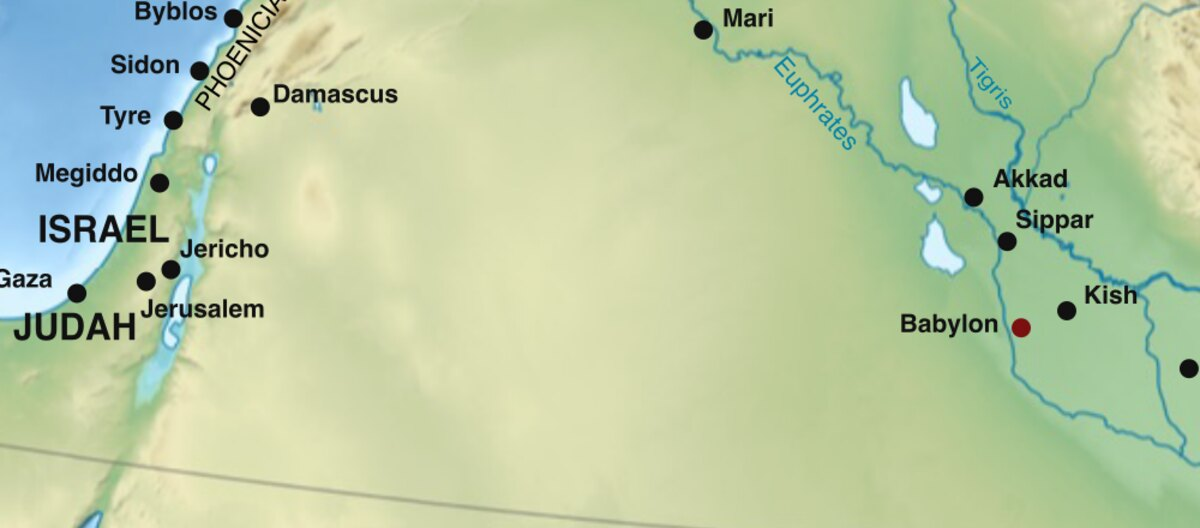
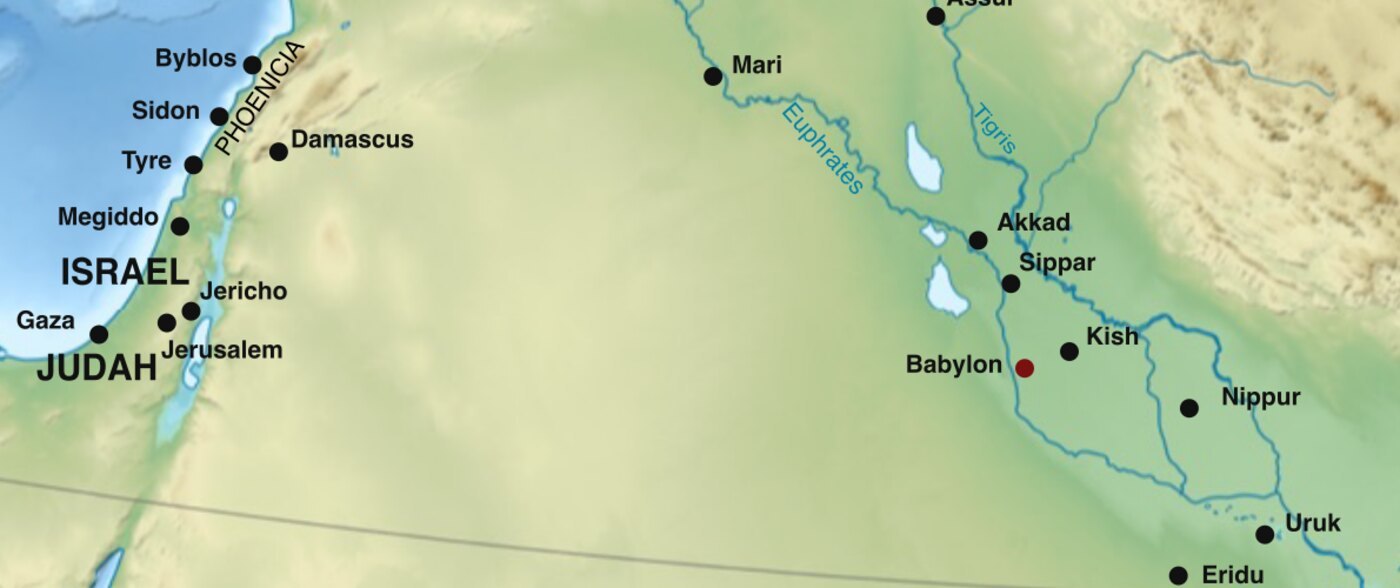
Babylon 07: route follows the Euphrates + ends at the Chebar settlement
Refine the deportation stepper: the route now tracks the actual Euphrates
(routed through Mari -> Sippar -> Babylon) instead of arcing over the desert,
and continues past Babylon to the Chebar-canal / Tel-abib settlement near
Nippur where the exiles actually lived (Ezekiel 3:15) -- not just Babylon
city. Subtitle notes all three waves shared this one road. Wider base crop.

diff --git a/content/culture/ancient/babylon/07-the-exile-experience.md b/content/culture/ancient/babylon/07-the-exile-experience.md
@@ -91,9 +91,10 @@ Your browser doesn&rsquo;t support the audio element &mdash; <a href="/audio/cul
 .exr-route-live { fill:none; stroke:#c65528; stroke-width:5; stroke-linecap:round; }
 .exr-dot-jeru { fill:#7a3030; stroke:#fff; stroke-width:2; }
 .exr-dot { fill:#3c3a33; stroke:#fff; stroke-width:1.5; }
+.exr-dot-end { fill:#c65528; stroke:#fff; stroke-width:2; }
 .exr-ring { fill:none; stroke:#c65528; stroke-width:3; }
-.exr-lbl { font:700 15px -apple-system,sans-serif; fill:#2c2a25; paint-order:stroke; stroke:#f3ecda; stroke-width:3; }
-.exr-sub { font:italic 12px -apple-system,sans-serif; fill:#5a544a; paint-order:stroke; stroke:#f3ecda; stroke-width:3; }
+.exr-lbl { font:700 15px -apple-system,sans-serif; fill:#2c2a25; paint-order:stroke; stroke:#f3ecda; stroke-width:3.5; }
+.exr-sub { font:italic 12px -apple-system,sans-serif; fill:#5a544a; paint-order:stroke; stroke:#f3ecda; stroke-width:3.5; }
 .exr-cap { padding:12px 18px 6px; font-size:.9rem; line-height:1.5; color:#443f37; min-height:4.6em; border-top:1px solid #eee6d8; }
 .exr-cap b { color:#7a3030; }
 .exr-time { display:flex; gap:0; padding:8px 12px 18px; position:relative; }
@@ -110,17 +111,20 @@ Your browser doesn&rsquo;t support the audio element &mdash; <a href="/audio/cul
 
 <div class="exr">
   <div class="exr-head"><h4>The Road to Babylon</h4>
-  <p>Three times Babylon emptied Jerusalem &mdash; the same long road north through Riblah and down the Euphrates. Step through the waves.</p></div>
-  <svg class="exr-map" viewBox="0 0 1000 440" role="img" aria-label="Map of the deportation route from Jerusalem through Riblah to Babylon">
-    <image href="/images/culture/babylon/maps/exile-route-base.jpg" x="0" y="0" width="1000" height="440"/>
+  <p>All three deportations took the same long road &mdash; north through Riblah, then down the Euphrates to the canal-country by the Chebar. Step through the waves.</p></div>
+  <svg class="exr-map" viewBox="0 0 1190 500" role="img" aria-label="Map of the deportation route from Jerusalem through Riblah down the Euphrates to the Chebar settlement near Nippur">
+    <image href="/images/culture/babylon/maps/exile-route-base.jpg" x="0" y="0" width="1190" height="500"/>
     <defs><marker id="exr-ah" markerWidth="6" markerHeight="6" refX="3" refY="3" orient="auto"><path d="M0,0 L6,3 L0,6 Z" fill="#c65528"/></marker></defs>
-    <path class="exr-route-base" d="M112,262 Q150,128 260,108 Q520,66 720,178 Q800,232 846,270"/>
-    <path class="exr-route-live" id="exr-live" d="M112,262 Q150,128 260,108 Q520,66 720,178 Q800,232 846,270" marker-end="url(#exr-ah)"/>
-    <circle class="exr-dot-jeru" cx="112" cy="262" r="6.5"/>
-    <circle class="exr-ring" cx="851" cy="272" r="12"/>
-    <circle class="exr-dot" cx="260" cy="108" r="5.5"/>
-    <text class="exr-lbl" x="272" y="104">Riblah</text>
-    <text class="exr-sub" x="272" y="120">Nebuchadnezzar&rsquo;s HQ</text>
+    <path class="exr-route-base" d="M137,304 C190,150 245,105 300,98 C430,58 540,62 622,82 C735,150 815,205 862,250 C872,272 872,296 872,314 C925,332 978,343 1012,349 C1030,368 1044,388 1050,404"/>
+    <path class="exr-route-live" id="exr-live" d="M137,304 C190,150 245,105 300,98 C430,58 540,62 622,82 C735,150 815,205 862,250 C872,272 872,296 872,314 C925,332 978,343 1012,349 C1030,368 1044,388 1050,404" marker-end="url(#exr-ah)"/>
+    <circle class="exr-dot-jeru" cx="137" cy="304" r="6.5"/>
+    <circle class="exr-dot" cx="300" cy="98" r="5.5"/>
+    <text class="exr-lbl" x="312" y="94">Riblah</text>
+    <text class="exr-sub" x="312" y="110">Nebuchadnezzar&rsquo;s HQ</text>
+    <circle class="exr-ring" cx="872" cy="314" r="12"/>
+    <circle class="exr-dot-end" cx="1050" cy="404" r="6"/>
+    <text class="exr-lbl" x="1040" y="416" text-anchor="end">Chebar canal</text>
+    <text class="exr-sub" x="1040" y="432" text-anchor="end">Tel-abib &middot; the exiles&rsquo; settlement</text>
   </svg>
   <p class="exr-cap" id="exr-cap"></p>
   <div class="exr-time" id="exr-time"></div>
@@ -131,12 +135,12 @@ Your browser doesn&rsquo;t support the audio element &mdash; <a href="/audio/cul
 (function(){
   var STEPS=[
     {yr:"605 BC",nm:"The hostages",cap:"<b>605 BC &mdash; the hostages.</b> Fresh from crushing Egypt at Carchemish, Nebuchadnezzar takes a first, select group &mdash; royal and noble youth, <b>Daniel</b> and his companions among them &mdash; along with vessels from the temple. Judah is now a vassal; the leadership begins to bleed east."},
-    {yr:"597 BC",nm:"The great deportation",cap:"<b>597 BC &mdash; the great deportation.</b> After Jehoiakim&rsquo;s revolt, Babylon takes <b>King Jehoiachin</b>, the queen mother, the officials, the fighting men, and every craftsman and smith &mdash; some ten thousand, &ldquo;none remained, save the poorest sort.&rdquo; <b>Ezekiel</b> travels in this wave and will prophesy by the Chebar canal."},
+    {yr:"597 BC",nm:"The great deportation",cap:"<b>597 BC &mdash; the great deportation.</b> After Jehoiakim&rsquo;s revolt, Babylon takes <b>King Jehoiachin</b>, the queen mother, the officials, the fighting men, and every craftsman and smith &mdash; some ten thousand, &ldquo;none remained, save the poorest sort.&rdquo; <b>Ezekiel</b> travels in this wave and settles &ldquo;by the river of Chebar&rdquo; (Ezekiel 3:15)."},
     {yr:"586 BC",nm:"The destruction",cap:"<b>586 BC &mdash; the destruction.</b> Zedekiah&rsquo;s rebellion ends at <b>Riblah</b>, where he is judged and blinded; Jerusalem and its temple are burned, and the city&rsquo;s survivors are marched to Babylonia. Only vinedressers and farmers are left behind &mdash; and a final aftershock follows in 582."}
   ];
   var live=document.getElementById('exr-live'), cap=document.getElementById('exr-cap'), time=document.getElementById('exr-time');
   var L=live.getTotalLength(); live.style.strokeDasharray=L;
-  function draw(){ live.style.transition='none'; live.style.strokeDashoffset=L; live.getBoundingClientRect(); live.style.transition='stroke-dashoffset 1.2s ease'; live.style.strokeDashoffset=0; }
+  function draw(){ live.style.transition='none'; live.style.strokeDashoffset=L; live.getBoundingClientRect(); live.style.transition='stroke-dashoffset 1.3s ease'; live.style.strokeDashoffset=0; }
   function show(n){
     var b=time.querySelectorAll('.exr-step'); for(var j=0;j<b.length;j++) b[j].classList.toggle('on',j===n);
     cap.innerHTML=STEPS[n].cap; draw();
